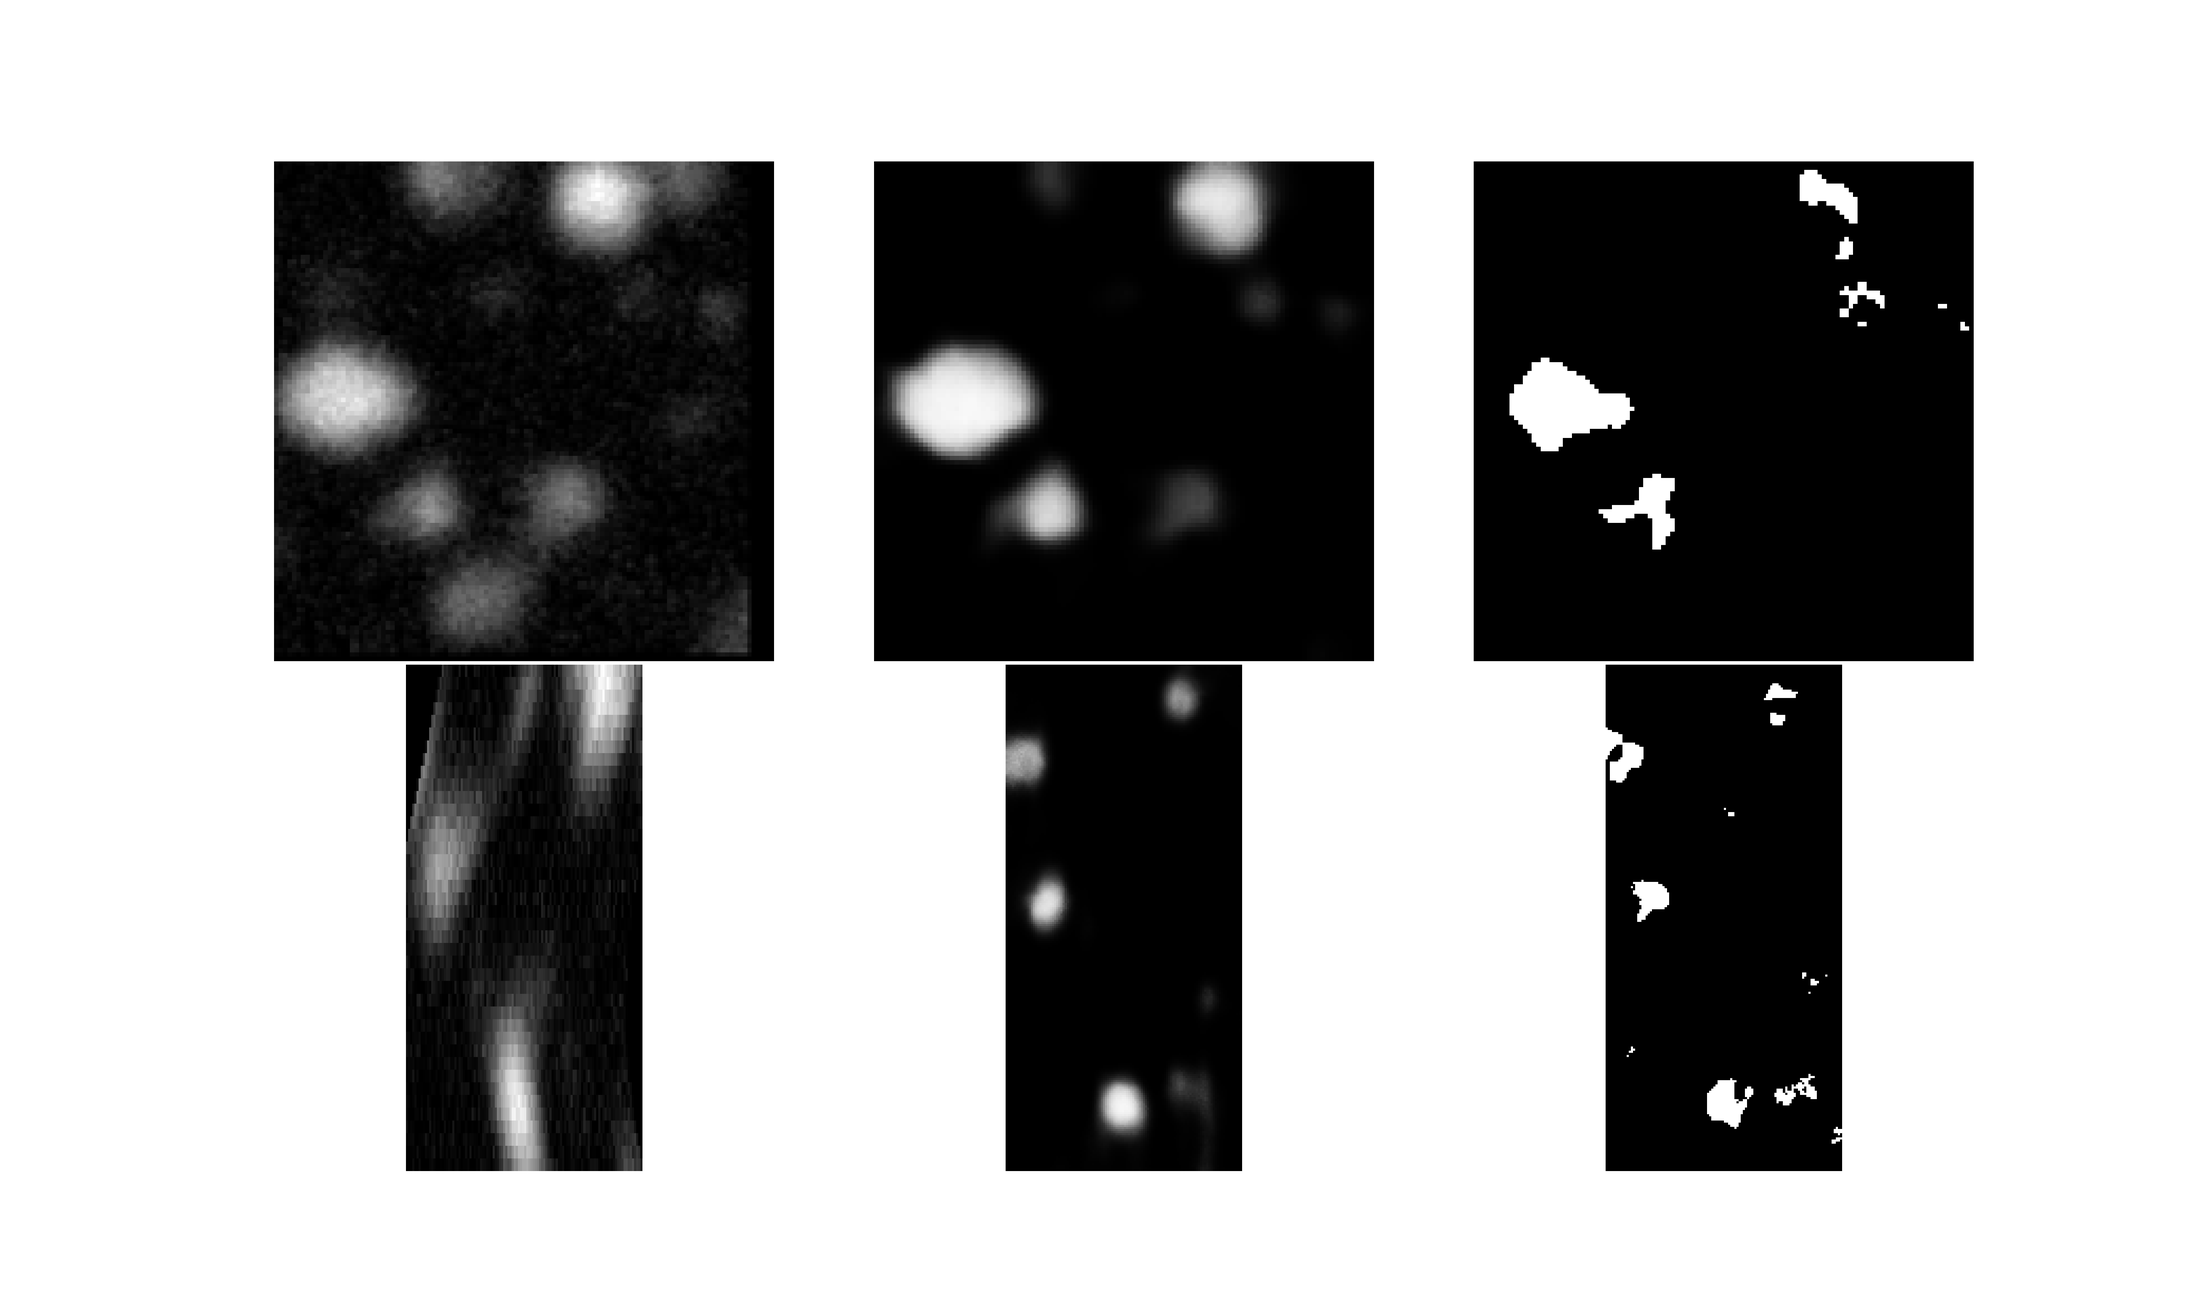
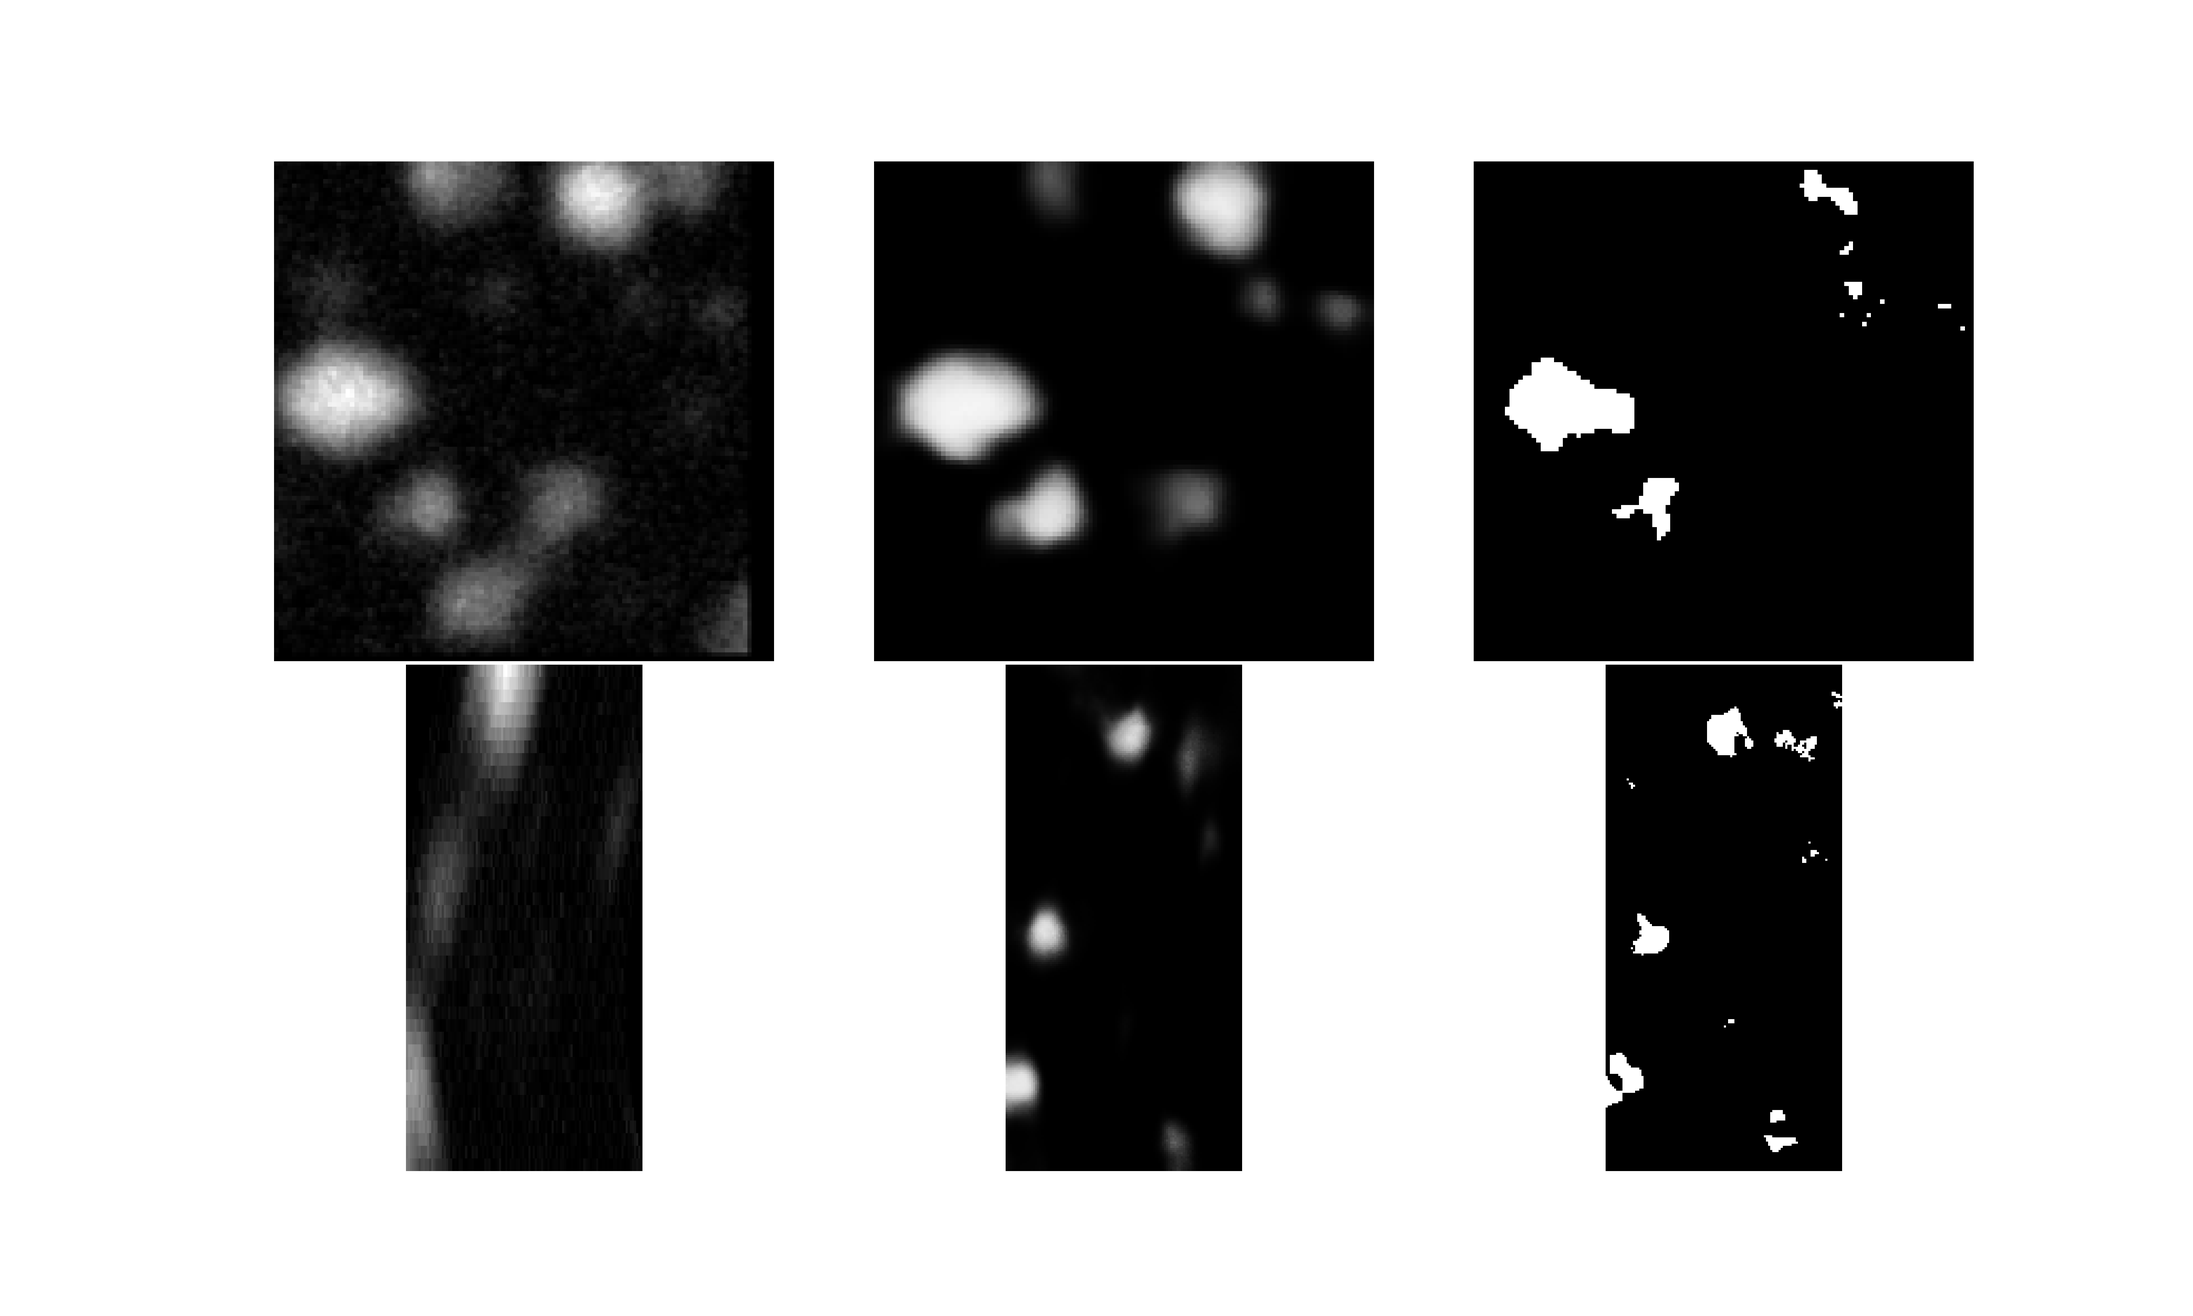
294 train result done, realseveraldataset added

diff --git a/realinference_tif_to_tif.py b/realinference_tif_to_tif.py
@@ -16,16 +16,16 @@ device = (torch.device('cuda') if torch.cuda.is_available()
 print(f"Inference on device {device}.")
 
 image_folder = '_wakelabdata_processed/'
-image_name   = ""
+image_name   = "1_Spine_structure_AD_175-11w-D3-xyz6-020C3-T1.tif"
 save_folder  = "_result_tif/"
-model_name           = 'JNet_292_fft_finetuning_bead'
+model_name           = 'JNet_294_pretrain'
 params               = {"mu_z"       : 0.2               ,
                         "sig_z"      : 0.2               ,
                         "log_bet_z"  : np.log(30.).item(),
                         "log_bet_xy" : np.log(3.).item() ,
                         "log_alpha"  : np.log(1.).item() ,
                         "sig_eps"    : 0.01              ,
-                        "scale"      : 10                ,
+                        "scale"      : 6                 ,
                         }
 
 JNet = model.JNet(hidden_channels_list  = [16, 32, 64, 128, 256],
@@ -45,7 +45,7 @@ JNet.load_state_dict(torch.load(f'model/{model_name}.pt'), strict=False)
 JNet.eval()
 
 image      = tifpath_to_tensor(os.path.join(image_folder, image_name))
-crop_size  = (24, 112, 112)
+crop_size  = (8, 112, 112)
 overlap    = ( 1,  10,  10)
 # image padding
 z_stride   = crop_size[0] - overlap[0]
@@ -53,41 +53,49 @@ x_stride   = crop_size[1] - overlap[1]
 y_stride   = crop_size[2] - overlap[2]
 image_size = image.shape[1:]
 scale = params["scale"]
-zpad  = image_size[0] % (crop_size[0] - overlap[0])
-xpad  = image_size[1] % (crop_size[1] - overlap[1])
-ypad  = image_size[2] % (crop_size[2] - overlap[2])
-image = F.pad(image, (0, zpad), (0, xpad), (0, ypad))
-result = torch.zeros((0, params["scale"]*image.shape[1], *image.shape[-2:]))
-for _z in range(image_size[0] // (crop_size[0] - overlap[0])):
-    for _x in range(image_size[1] // (crop_size[1] - overlap[1])):
-        for _y in range(image_size[2] // (crop_size[1] - overlap[2])):
-            crop = image[0, z_stride*_z : z_stride*_z + crop_size[0],
+def padsize(image_size, crop_size, overlap_size):
+    stride = crop_size - overlap_size
+    n   = (image_size - crop_size) // stride + 2
+    pad = n * stride + crop_size - image_size
+    return pad
+
+zpad  = padsize(image_size[0], crop_size[0], overlap[0])
+xpad  = padsize(image_size[1], crop_size[1], overlap[1])
+ypad  = padsize(image_size[2], crop_size[2], overlap[2])
+image = F.pad(image, (0, ypad, 0, xpad, 0, zpad), "constant", 0.)
+print(image.shape)
+result = torch.zeros((1, params["scale"]*image.shape[1], *image.shape[-2:]))
+for _z in range(image.shape[1] // (crop_size[0] - overlap[0]) - 1):
+    for _x in range(image.shape[2] // (crop_size[1] - overlap[1] - 1)):
+        for _y in range(image.shape[3] // (crop_size[1] - overlap[2] - 1)):
+            crop = image[:, z_stride*_z : z_stride*_z + crop_size[0],
                             x_stride*_x : x_stride*_x + crop_size[1],
-                            y_stride*_y : y_stride*_y + crop_size[2],].clone().to(device)
-            crop = JNet(crop)["enhanced_image"] # inference
-            result[0, (z_stride*_z)*scale : (z_stride*_z + crop_size[0]) * scale,
+                            y_stride*_y : y_stride*_y + crop_size[2],].clone().to(device).unsqueeze(0)
+            crop = JNet(crop)["enhanced_image"].squeeze(0).detach().cpu()
+            result[:, (z_stride*_z)*scale : (z_stride*_z + crop_size[0]) * scale,
                       x_stride*_x : x_stride*_x + crop_size[1],
                       y_stride*_y : y_stride*_y + crop_size[2],] += crop # sum
             if _z != 0 and overlap[0] != 0: # resolve overlap
-                result[0, (z_stride*_z)*scale : (z_stride*_z + overlap[0]) * scale,
+                result[:, (z_stride*_z)*scale : (z_stride*_z + overlap[0]) * scale,
                           x_stride*_x : x_stride*_x + crop_size[1],
                           y_stride*_y : y_stride*_y + crop_size[2],] \
-              = result[0, (z_stride*_z)*scale : (z_stride*_z + overlap[0]) * scale,
+              = result[:, (z_stride*_z)*scale : (z_stride*_z + overlap[0]) * scale,
                           x_stride*_x : x_stride*_x + crop_size[1],
                           y_stride*_y : y_stride*_y + crop_size[2],].clone() * 1/2
             if _x != 0 and overlap[1] != 0:
-                result[0, (z_stride*_z)*scale : (z_stride*_z + crop_size[0]) * scale,
+                result[:, (z_stride*_z)*scale : (z_stride*_z + crop_size[0]) * scale,
                           x_stride*_x : x_stride*_x + overlap[1]  ,
                           y_stride*_y : y_stride*_y + crop_size[2],] \
-              = result[0, (z_stride*_z)*scale : (z_stride*_z + crop_size[0]) * scale,
+              = result[:, (z_stride*_z)*scale : (z_stride*_z + crop_size[0]) * scale,
                           x_stride*_x : x_stride*_x + overlap[1]  ,
                           y_stride*_y : y_stride*_y + crop_size[2],].clone() * 1/2
             if _y != 0 and overlap[2] != 0:
-                result[0, (z_stride*_z)*scale : (z_stride*_z + crop_size[0]) * scale,
+                result[:, (z_stride*_z)*scale : (z_stride*_z + crop_size[0]) * scale,
                           x_stride*_x : x_stride*_x + crop_size[1],
                           y_stride*_y : y_stride*_y + overlap[2]  ,] \
-              = result[0, (z_stride*_z)*scale : (z_stride*_z + crop_size[0]) * scale,
+              = result[:, (z_stride*_z)*scale : (z_stride*_z + crop_size[0]) * scale,
                           x_stride*_x : x_stride*_x + crop_size[1],
                           y_stride*_y : y_stride*_y + overlap[2]  ,].clone() * 1/2
-result = result[:, :zpad, :xpad, :ypad].detach().cpu().numpy()
+result = result[:, :-zpad*scale, :-xpad, :-ypad].detach().cpu().numpy()
+print(result.shape)
 array_to_tif(os.path.join(save_folder, image_name), result)

diff --git a/dataset.py b/dataset.py
@@ -13,7 +13,7 @@ from scipy.stats import lognorm, truncnorm
 from fft_conv_pytorch import fft_conv
 
 
-from utils import mask_, surround_mask_
+from utils import mask_, surround_mask_, tifpath_to_tensor
 from model import ImagingProcess
 
 def gen_indices(I, low, high):
@@ -415,6 +415,119 @@ class RealDensityDataset(Dataset):
             image   = Crop(icoords, self.scsize)(torch.load(self.images[_idx]))
             image = self.apply_surround_mask(self.surround, image, self.surround_size)
         return image, 0
+
+    def __len__(self):
+        return self.I
+    
+class RealSeveralDataset(Dataset):
+    '''
+    input  : 4d tif image path (large (like 768**3) size) (image)
+    output : 4d torch.tensor (small (like 128**3) size)
+             ([channels, z_size, x_size, y_size]) 
+             of randomly cropped/rotated image
+    folderpath : large data path ("randomdata" in this repo)
+    imagename : "0001***.pt" `s "**" part. (e.g. "_x1")
+    I : sample size. Returns I samples. (e.g. 200)
+    low, high : use [low]th ~ [high]th files in folderpath as data.
+    scale: scale (should be same as [imagename]'s int part.)
+
+    algorithm
+    (init)
+    1. calculate score by conv filter
+    2. normalize score to [0, 1]
+    (__getitem__)
+    3. r ~ uniform(0,1)
+    4. accept | if r < score
+       reject | else
+    '''
+    def __init__(self, folderpath:str, imagename:str,
+                 cropsize:list, I:int, low:int, high:int,
+                 train=True, mask=True, mask_size=[10, 10, 10], mask_num=1,
+                 surround=True, surround_size=[64, 8, 8], seed=904):
+        self.I             = I
+        self.low           = low
+        self.high          = high
+        self.imagename     = imagename
+        self.images        = list(sorted(Path(folderpath).glob(f'*{imagename}.tif')))
+        self.csize         = cropsize
+        self.train         = train
+        self.mask          = mask
+        self.mask_num      = mask_num
+        self.mask_size     = mask_size
+        self.surround      = surround
+        self.surround_size = surround_size
+        self.icoords_size  = [self.ssize[0] - self.scsize[0] + 1,
+                              self.ssize[1] - self.scsize[1] + 1,
+                              self.ssize[2] - self.scsize[2] + 1,]
+        self.options       = [[-3], [-3,-2], [-3,-2,-1], [-3,-1],
+                              [-2], [-2,-1], [-1], [-4]]
+        
+        if train == False:
+            np.random.seed(seed)
+            self.indiceslist = self.gen_indices(I, low, high)
+            self.coordslist  = self.gen_coords(I, self.icoords_size)
+
+    def gen_indices(self, I, low, high):
+        return np.random.randint(low, high, (I,))
+    
+    def gen_coords(self, I, icoords_size):
+        zcoord = np.random.randint(0, icoords_size[0], (I,))
+        xcoord = np.random.randint(0, icoords_size[1], (I,))
+        ycoord = np.random.randint(0, icoords_size[2], (I,))
+        return np.array([zcoord, xcoord, ycoord])
+
+    def apply_mask(self, mask, image, mask_size, mask_num):
+        if mask:
+            image = mask_(image, mask_size, mask_num)
+        return image
+
+    def apply_surround_mask(self, surround, image, surround_size):
+        if surround:
+            image = surround_mask_(image, surround_size)
+        return image
+
+    def randomflip(self, image):
+        option = self.options[np.random.choice([i for i in range(8)])]
+        return image.flip(dims=option)
+
+    def __getitem__(self, idx):
+        if self.train:
+            r, s = 1, 0
+            while not r < s:
+                idx = self.gen_indices(1, self.low, self.high).item()
+                image = tifpath_to_tensor(self.images[idx])
+                if "1_Spine-" in self.images[idx]:
+                    scale = 6
+                if "2_Spine-" in self.images[idx]:
+                    scale = 2
+                if "3_2-" in self.images[idx]:
+                    scale = 8
+                if "Beads" in self.images[idx]:
+                    scale = 10
+                if "MD" in self.images[idx]:
+                    scale = 12
+                ssize = [image.size(1) // scale, image.size(2), image.size(3)]
+                icoords_size  = [ssize[0] - self.csize[0]//scale + 1,
+                                 ssize[1] - self.csize[1]        + 1,
+                                 ssize[2] - self.csize[2]        + 1,]
+                scsize        = [self.csize[0]//scale ,
+                                 self.csize[1]        ,
+                                 self.csize[2]        ,]
+                icoords = self.gen_coords(1, icoords_size)
+                icoords = icoords[:, 0]
+                image = Crop(icoords, scsize)(image)
+                s = self.torch.sum(image) / (self.csize[0]//scale * self.csize[1] * self.csize[2])
+                r = np.random.uniform(0, 1)
+            image, _, _ = Rotate()(image)
+            image = self.randomflip(image)
+            image = self.apply_mask(self.mask, image, self.mask_size, self.mask_num)
+            image = self.apply_surround_mask(self.surround, image, self.surround_size)
+        else:
+            _idx    = self.indiceslist[idx]  # convert idx to [low] ~[high] number
+            icoords = self.coordslist[:, idx]
+            image   = Crop(icoords, self.scsize)(tifpath_to_tensor(self.images[_idx]))
+            image = self.apply_surround_mask(self.surround, image, self.surround_size)
+        return image, scale
 
     def __len__(self):
         return self.I

diff --git a/realtrain_runner.py b/realtrain_runner.py
@@ -5,7 +5,7 @@ import torch.nn as nn
 from torch.utils.data import DataLoader
 import torch.optim as optim
 import model_new as model
-from dataset import RealDensityDataset, RandomCutDataset
+from dataset import RealDensityDataset, RandomCutDataset, RealSeveralDataset
 from   train_loop import train_loop, ElasticWeightConsolidation
 
 device = (torch.device('cuda') if torch.cuda.is_available()
@@ -65,7 +65,7 @@ val_data    = DataLoader(val_dataset                   ,
                          num_workers = os.cpu_count()  ,
                          )
 
-model_name           = 'JNet_293_fft_finetuning_bead'
+model_name           = 'JNet_295_realseveraldatasettest'
 hidden_channels_list = [16, 32, 64, 128, 256]
 nblocks              = 2
 s_nblocks            = 2
@@ -114,36 +114,36 @@ scheduler            = None #= optim.lr_scheduler.ReduceLROnPlateau(optimizer, '
 loss_fn              = nn.MSELoss()
 midloss_fn           = nn.BCELoss()
 
-ewc_dataset   = RandomCutDataset(folderpath  =  '_var_num_beadsdata2_30_hill' ,  ###
-                                 imagename   =  f'_x6'                , 
-                                 labelname   =  '_label'              ,
-                                 size        =  (1200, 500, 500)      ,
-                                 cropsize    =  ( 240, 112, 112)      ,
-                                 I             = 800                  ,
-                                 low           =   0                  ,
-                                 high          =  16                  ,
-                                 scale         =  scale               ,  ## scale
-                                 mask          =  True                ,
-                                 mask_size     =  [ 1, 10, 10]        ,
-                                 mask_num      =  10                  ,  #( 1% of image)
-                                 surround      =  surround            ,
-                                 surround_size =  surround_size       ,
-                                 )
+# ewc_dataset   = RandomCutDataset(folderpath  =  '_var_num_beadsdata2_30_hill' ,  ###
+#                                  imagename   =  f'_x6'                , 
+#                                  labelname   =  '_label'              ,
+#                                  size        =  (1200, 500, 500)      ,
+#                                  cropsize    =  ( 240, 112, 112)      ,
+#                                  I             = 800                  ,
+#                                  low           =   0                  ,
+#                                  high          =  16                  ,
+#                                  scale         =  scale               ,  ## scale
+#                                  mask          =  True                ,
+#                                  mask_size     =  [ 1, 10, 10]        ,
+#                                  mask_num      =  10                  ,  #( 1% of image)
+#                                  surround      =  surround            ,
+#                                  surround_size =  surround_size       ,
+#                                  )
 
-ewc_data    = DataLoader(ewc_dataset                   ,
-                         batch_size  = 1               ,
-                         shuffle     = True            ,
-                         pin_memory  = True            ,
-                         num_workers = os.cpu_count()  ,
-                         )
-ewc = ElasticWeightConsolidation(model           = JNet,
-                                 prev_dataloader = ewc_data,
-                                 loss_fn         = loss_fn,
-                                 init_num_batch  = 100,
-                                 is_vibrate      = True,
-                                 device          = device,
-                                 skip_register   = True   )
-torch.save(JNet.state_dict(), f'model/JNet_265_vibration.pt')
+# ewc_data    = DataLoader(ewc_dataset                   ,
+#                          batch_size  = 1               ,
+#                          shuffle     = True            ,
+#                          pin_memory  = True            ,
+#                          num_workers = os.cpu_count()  ,
+#                          )
+# ewc = ElasticWeightConsolidation(model           = JNet,
+#                                  prev_dataloader = ewc_data,
+#                                  loss_fn         = loss_fn,
+#                                  init_num_batch  = 100,
+#                                  is_vibrate      = True,
+#                                  device          = device,
+#                                  skip_register   = True   )
+# torch.save(JNet.state_dict(), f'model/JNet_265_vibration.pt')
 
 print(f"============= model {model_name} train started =============")
 train_loop(
@@ -161,7 +161,7 @@ train_loop(
     param_normalize  = None        ,
     augment          = None        ,
     val_augment      = None        ,
-    ewc              = ewc         ,
+    ewc              = None        ,
     partial          = partial     ,
     scheduler        = scheduler   ,
     es_patience      = 20          ,

diff --git a/train_loop.py b/train_loop.py
@@ -69,6 +69,7 @@ def train_loop(n_epochs, optimizer, model, loss_fn, param_loss_fn, train_loader,
             else:
                 image    = train_data[0].to(device = device)
                 label    = train_data[1].to(device = device)
+                print(label)
             if is_vibrate:
                 vimage = vibrate(image)
             else:
